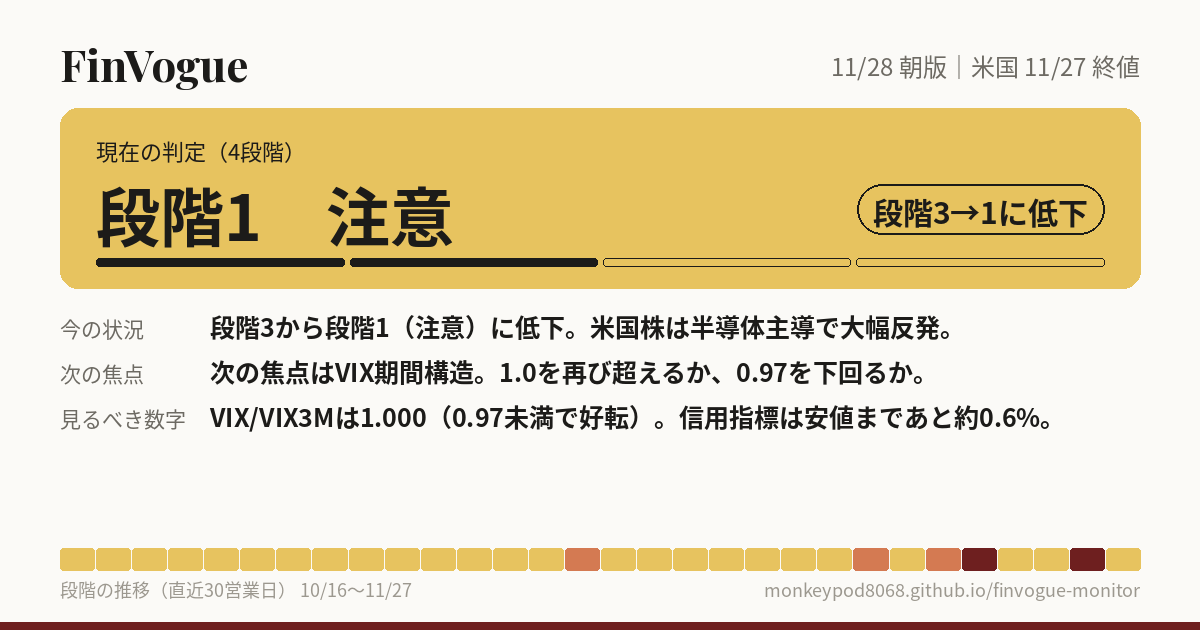
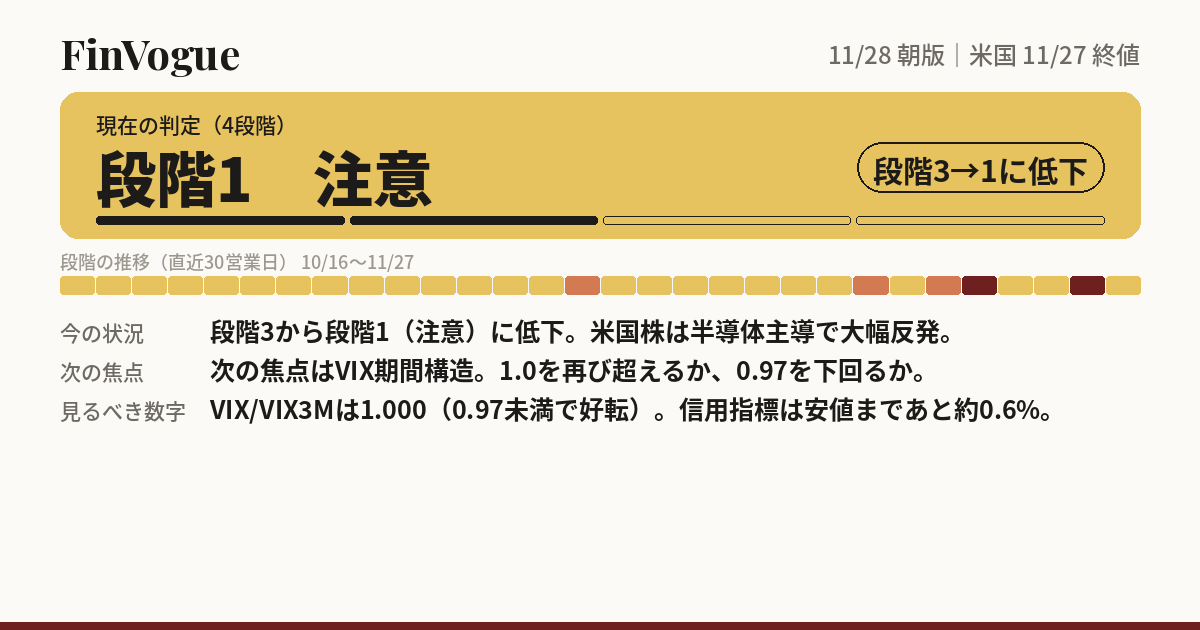
Xカード画像: 段階の推移の帯を上に移し、Xのタイトル表示と重ならないよう下部を空ける
Claude-Session: https://claude.ai/code/session_01VTaS3ZEAmJgpFeRk8EGQRC

Changed region(s): [[0.0308, 0.0603, 0.9558, 0.6937], [0.0308, 0.8444, 0.9558, 0.9651], [0.0308, 0.5127, 0.1233, 0.5429]]

diff --git a/scripts/make_og.py b/scripts/make_og.py
@@ -97,26 +97,31 @@ def md(s: str) -> str:
     return f"{int(p[1])}/{int(p[2])}"
 
 
+# Xはカード画像の左下(下から約90px)にページのタイトルを重ねて表示するので、
+# 文字や帯は SAFE_BOTTOM より上に収め、下の帯域は空けておく。
+SAFE_BOTTOM = H - 100
+
+
 def render(d: dict, days: list[dict]) -> Image.Image:
     st = int(d.get("stage", 0))
     img = Image.new("RGB", (W, H), PAPER)
     dr = ImageDraw.Draw(img)
     # 上部: ロゴと日付
-    dr.text((60, 34), "FinVogue", font=serif(44), fill=INK)
+    dr.text((60, 24), "FinVogue", font=serif(42), fill=INK)
     upd = str(d.get("updated", ""))[:10]
     ed = d.get("edition", "")
     right = f"{md(upd)} {ed}" if upd else ed
     if d.get("us_date"):
         right += f"｜米国 {md(str(d['us_date']))} 終値"
     f = cjk(24, "Medium")
-    dr.text((W - 60 - dr.textlength(right, font=f), 48), right, font=f, fill=MUTED)
+    dr.text((W - 60 - dr.textlength(right, font=f), 36), right, font=f, fill=MUTED)
 
     # 段階のパネル
-    x0, y0, x1, y1 = 60, 108, W - 60, 288
+    x0, y0, x1, y1 = 60, 92, W - 60, 238
     dr.rounded_rectangle((x0, y0, x1, y1), radius=18, fill=STAGE_BG[st])
     fg = STAGE_FG[st]
-    dr.text((x0 + 36, y0 + 26), "現在の判定（4段階）", font=cjk(22, "Medium"), fill=fg)
-    dr.text((x0 + 36, y0 + 58), f"段階{st}　{STAGES[st]}", font=cjk(64, "Black"), fill=fg)
+    dr.text((x0 + 36, y0 + 16), "現在の判定（4段階）", font=cjk(21, "Medium"), fill=fg)
+    dr.text((x0 + 36, y0 + 40), f"段階{st}　{STAGES[st]}", font=cjk(60, "Black"), fill=fg)
     # 前日からの変化
     prev = days[-2]["stage"] if len(days) >= 2 else None
     if prev is not None and prev != st:
@@ -134,42 +139,42 @@ def render(d: dict, days: list[dict]) -> Image.Image:
         fc = cjk(30, "Bold")
         tw = dr.textlength(chg, font=fc)
         bx = x1 - 36 - tw - 32
-        dr.rounded_rectangle((bx, y0 + 76, x1 - 36, y0 + 126), radius=25,
+        dr.rounded_rectangle((bx, y0 + 50, x1 - 36, y0 + 100), radius=25,
                              outline=fg, width=2)
-        dr.text((bx + 16, y0 + 81), chg, font=fc, fill=fg)
+        dr.text((bx + 16, y0 + 55), chg, font=fc, fill=fg)
     # 4段階の目盛り
     sw = (x1 - x0 - 72 - 18) / 4
     for i in range(4):
         sx = x0 + 36 + i * (sw + 6)
-        dr.rounded_rectangle((sx, y1 - 30, sx + sw, y1 - 22), radius=3,
-                             fill=fg if i == st else (fg if i < st else None),
-                             outline=fg)
-        if i != st and i > st:
-            pass
+        dr.rounded_rectangle((sx, y1 - 22, sx + sw, y1 - 14), radius=3,
+                             fill=fg if i <= st else None, outline=fg)
 
-    # 3行まとめ
-    fl, ft = cjk(21, "Medium"), cjk(25, "Bold")
-    y = 308
-    for lab, txt in summary_items(d):
-        dr.text((60, y + 4), lab, font=fl, fill=MUTED)
-        for li, line in enumerate(wrap2(dr, txt, ft, W - 60 - 210)):
-            dr.text((210, y), line, font=ft, fill=INK)
-            y += 33
-        y += 12
-
-    # 直近30営業日の帯
+    # 直近30営業日の帯(パネルのすぐ下。Xのタイトル表示と重ならない位置)
+    y = 248
     if len(days) >= 5:
-        by, bh = 548, 22
+        fs = cjk(18, "Medium")
         n = len(days)
+        dr.text((60, y), f"段階の推移（直近{n}営業日） {md(days[0]['date'])}〜{md(days[-1]['date'])}",
+                font=fs, fill=FAINT)
+        by, bh = y + 28, 18
         bw = (W - 120 - 2 * (n - 1)) / n
         for i, x in enumerate(days):
             bx = 60 + i * (bw + 2)
             dr.rounded_rectangle((bx, by, bx + bw, by + bh), radius=3, fill=STAGE_BG[int(x["stage"])])
-        fs = cjk(18, "Medium")
-        dr.text((60, by + 28), f"段階の推移（直近{n}営業日） {md(days[0]['date'])}〜{md(days[-1]['date'])}",
-                font=fs, fill=FAINT)
-        tag = "monkeypod8068.github.io/finvogue-monitor"
-        dr.text((W - 60 - dr.textlength(tag, font=fs), by + 28), tag, font=fs, fill=FAINT)
+        y = by + bh + 18
+    else:
+        y += 8
+
+    # 3行まとめ(各2行まで)
+    fl, ft = cjk(21, "Medium"), cjk(25, "Bold")
+    for lab, txt in summary_items(d):
+        dr.text((60, y + 4), lab, font=fl, fill=MUTED)
+        for line in wrap2(dr, txt, ft, W - 60 - 210):
+            if y + 30 > SAFE_BOTTOM:
+                break
+            dr.text((210, y), line, font=ft, fill=INK)
+            y += 31
+        y += 8
     # 下端のライン
     dr.rectangle((0, H - 8, W, H), fill="#6e1f1f")
     return img
